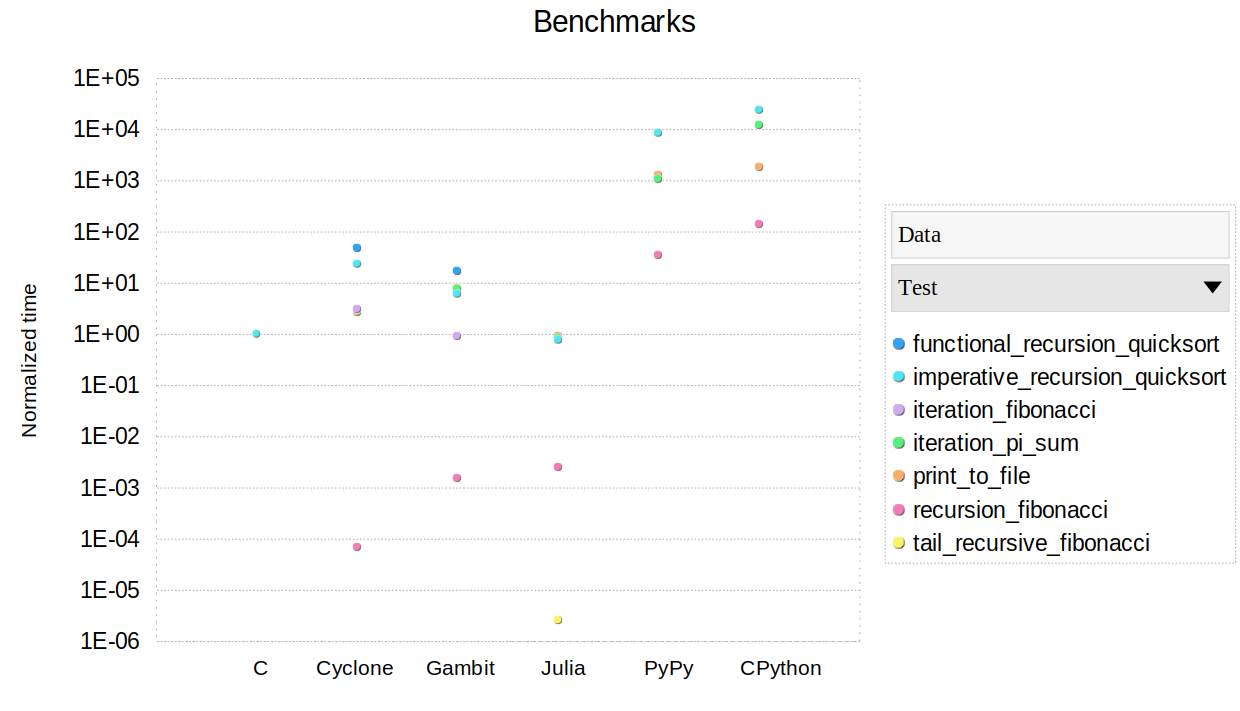
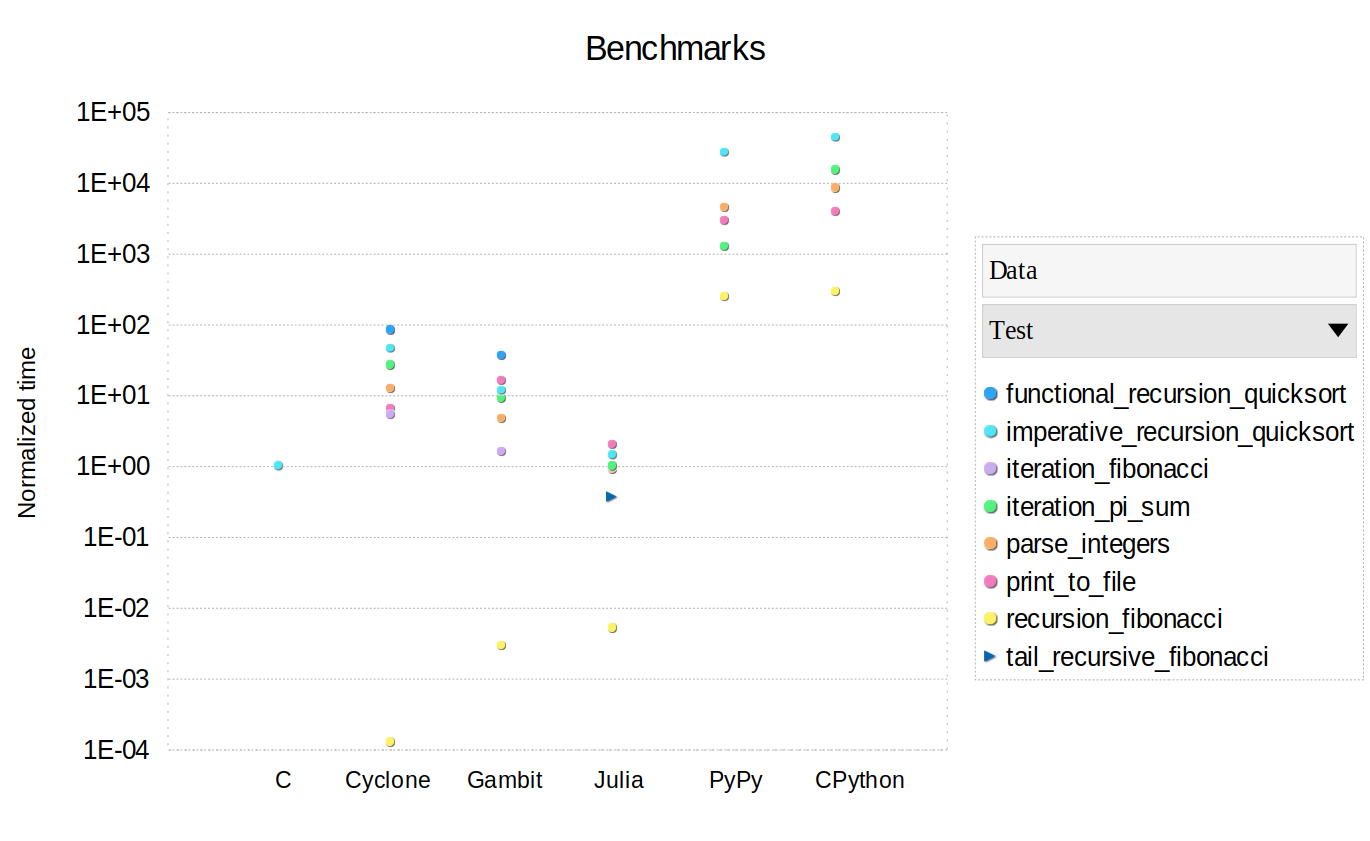
Added parse_integers benchmark

diff --git a/perf.c b/perf.c
@@ -1,7 +1,10 @@
-#include <time.h>
 #include <stdio.h>
 #include <stdlib.h>
+#include <time.h>
+#include <math.h>
+#include <assert.h>
 
+#define NITER 5
 double clock_now()
 {
   struct timespec now;
@@ -104,7 +107,7 @@ void print_perf(char *test, double time) {
 }
 
 int main(int argc, char **argv) { 
-  double t;
+  double t, tmin;
 
   tmin = INFINITY;
   for (int i=0; i<NITER; ++i) {
@@ -157,9 +160,9 @@ int main(int argc, char **argv) {
     t = clock_now();
     char s[11];
     for (int k=0; k<1000; ++k) {
-      uint32_t n = rand();
+      u_int32_t n = rand();
       sprintf(s, "%x", n);
-      uint32_t m = (uint32_t)parse_int(s, 16);
+      u_int32_t m = (u_int32_t)parse_int(s, 16);
       assert(m == n);
     }
     t = clock_now()-t;

diff --git a/README.md b/README.md
@@ -36,3 +36,5 @@ int fib(int n) {
 ```
 
 ![Graph](/benchmarks.png) 
+
+The graph was generated in a Intel i5 4GB RAM Linux thunder 5.4.0-64-generic #72-Ubuntu SMP Fri Jan 15 10:27:54 UTC 2021 x86_64 x86_64 x86_64 GNU/Linux. For raw data in seconds see [bench.csv](https://github.com/arthurmaciel/performant-expressiveness/blob/master/bench.csv).
